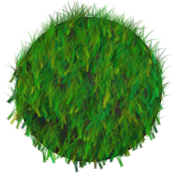
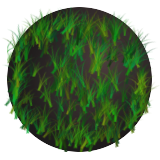
remove meteorite when on center of planet

diff --git a/PlanetGame.py b/PlanetGame.py
@@ -233,8 +233,10 @@ class PlanetGameWindow(arcade.Window):
             self.planet_sprite = ModelSprite('images/planet3-3.png', model=self.world.planet)
         elif level < 80 :
             self.planet_sprite = ModelSprite('images/planet3-4.png', model=self.world.planet)
-        elif level == 100 :
+        elif level < 100 :
             self.planet_sprite = ModelSprite('images/planet3-5.png', model=self.world.planet)
+        else :
+            self.planet_sprite = ModelSprite('images/planet3-6.png', model=self.world.planet)
 
 if __name__ == '__main__':
     window = PlanetGameWindow(SCREEN_WIDTH, SCREEN_HEIGHT)

diff --git a/models.py b/models.py
@@ -245,6 +245,10 @@ class World:
                 self.meteorite_listenner.notify('remove', meteorite)
                 self.meteorites.remove(meteorite)
                 del meteorite
+            elif math.fabs(meteorite.x - self.planet.x) < 40 and math.fabs(meteorite.y == self.planet.y) < 40 :
+                self.meteorite_listenner.notify('remove', meteorite)
+                self.meteorites.remove(meteorite)
+                del meteorite
 
     def ship_on_planet(self) :
         if time() - self.water_bar_update_counter >= 1 :
